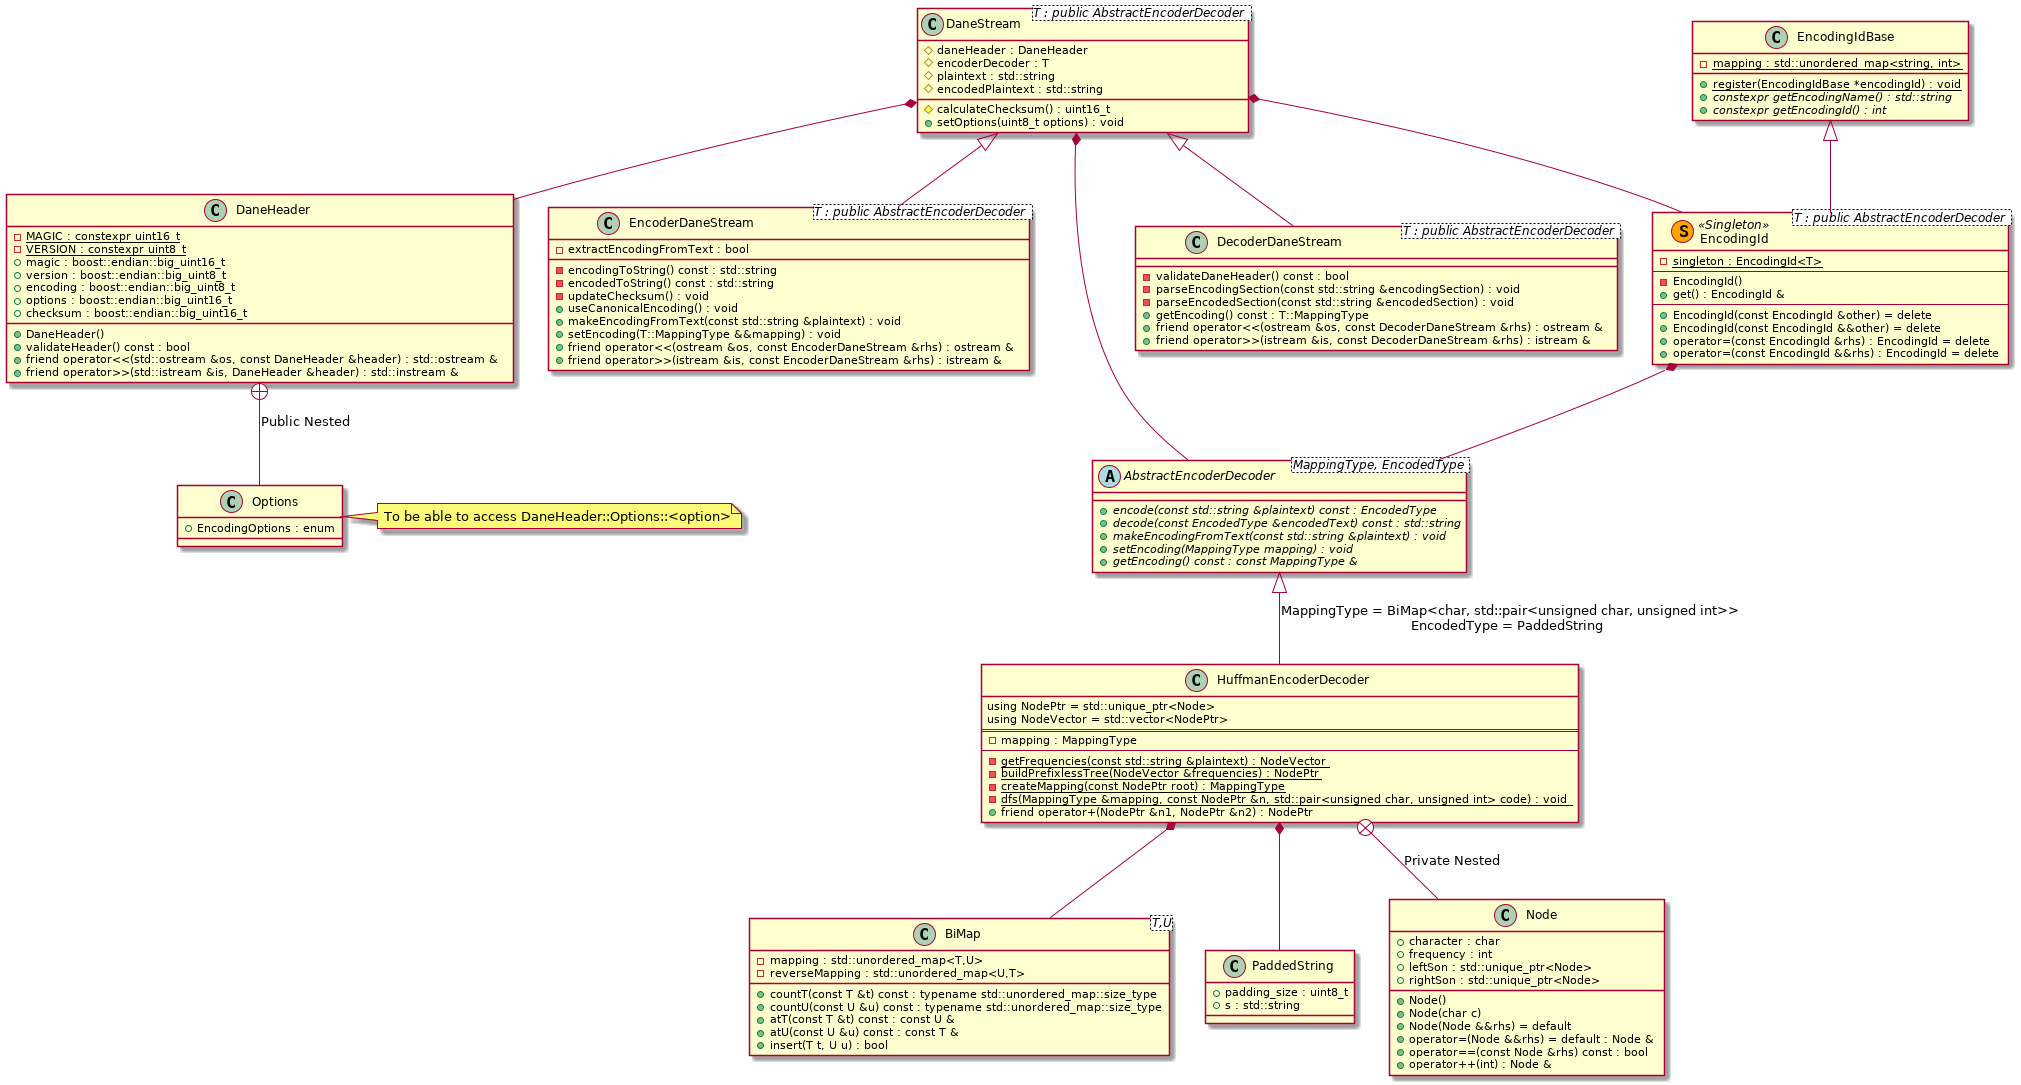
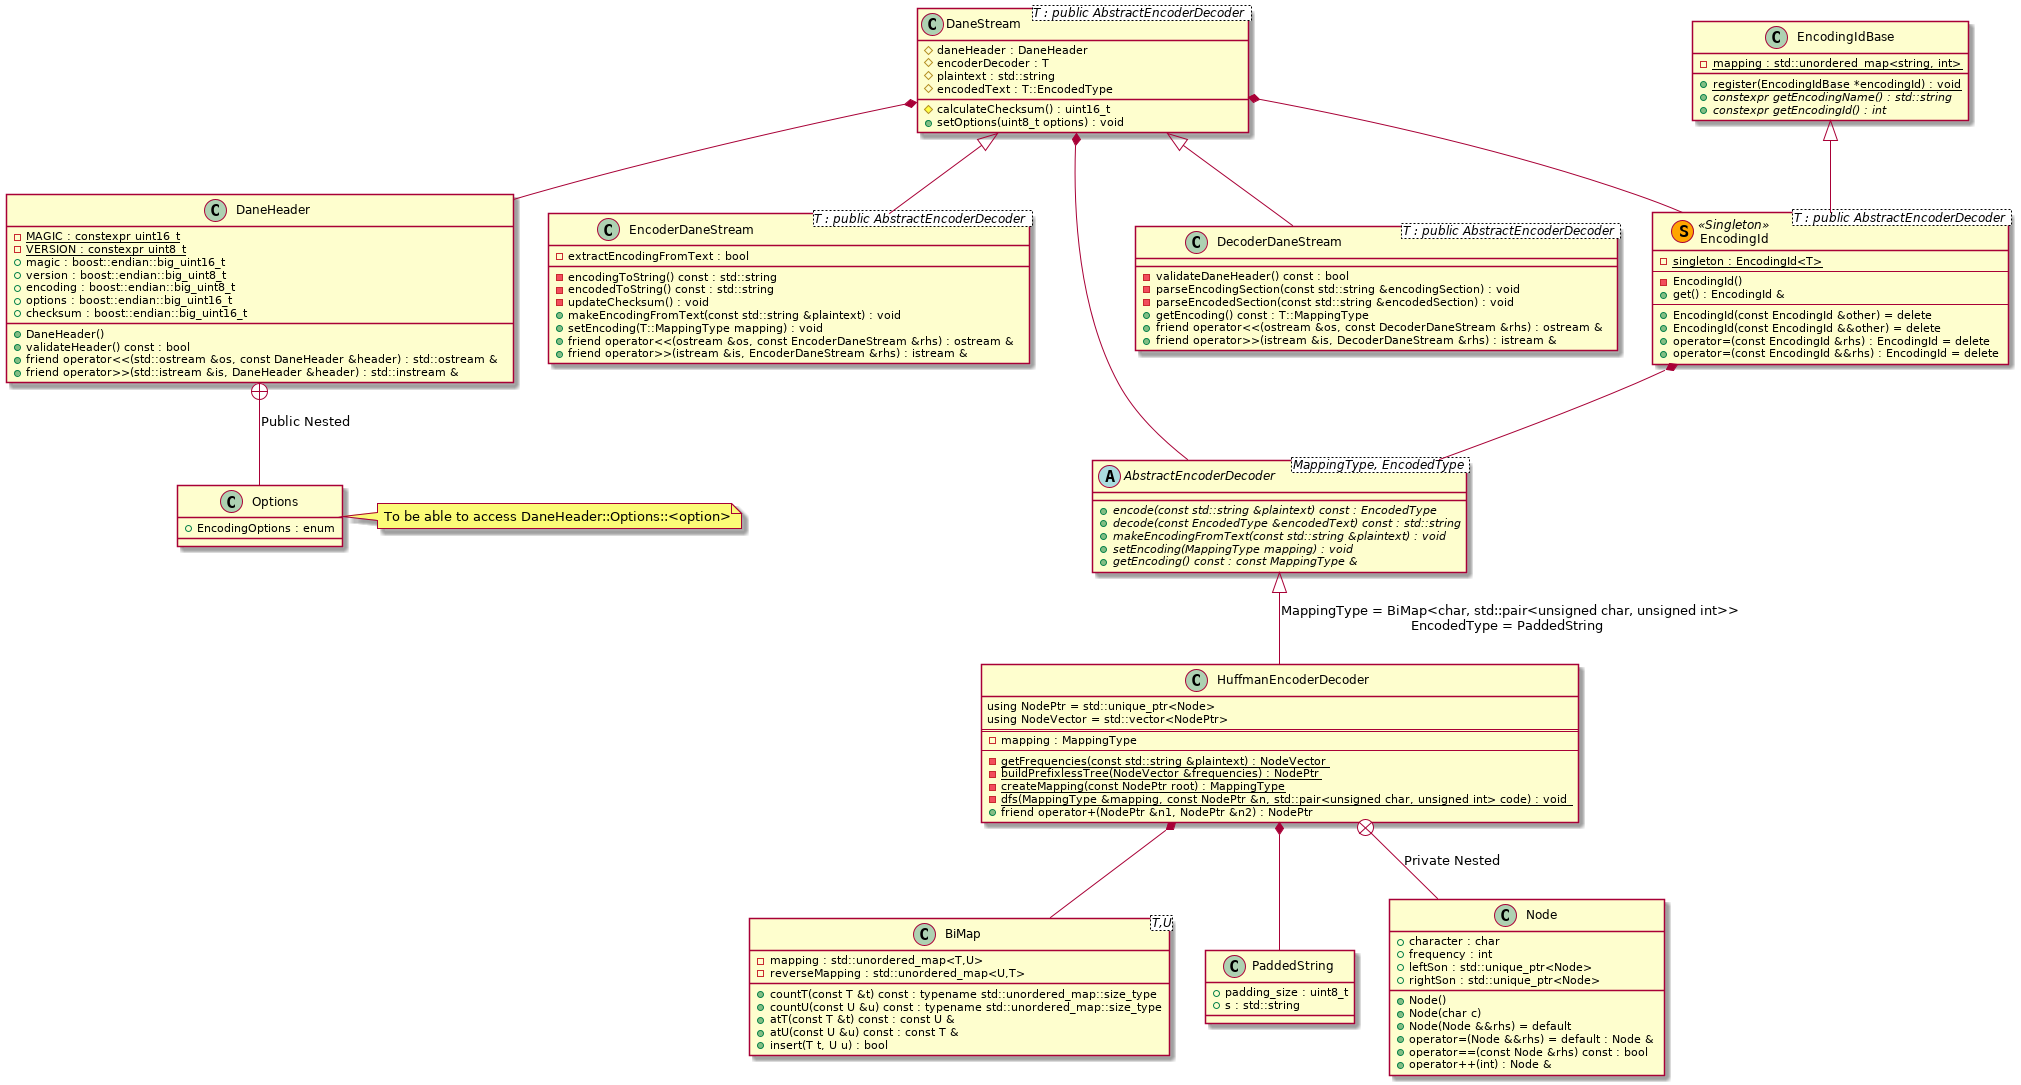
Changed signature of >> operators to receive non-const objects

Changed region(s): [[0.2494, 0.1825, 0.5299, 0.365], [0.6546, 0.3041, 0.7793, 0.3346], [0.4988, 0.0608, 0.5299, 0.0912]]

diff --git a/include/Dane/EncoderDaneStream.h b/include/Dane/EncoderDaneStream.h
@@ -17,7 +17,7 @@ public:
 	void setEncoding(DaneStream::MappingType mapping);
 
 	friend ostream &operator<<(ostream &os, const EncoderDaneStream &rhs);
-	friend istream &operator>>(istream &is, const EncoderDaneStream &rhs);
+	friend istream &operator>>(istream &is, EncoderDaneStream &rhs);
 };
 
 #endif

diff --git a/include/Dane/DecoderDaneStream.h b/include/Dane/DecoderDaneStream.h
@@ -12,6 +12,9 @@ private:
 
 public:
 	DaneStream::MappingType getEncoding() const;
+
+	friend ostream &operator<<(ostream &os, const DecoderDaneStream &rhs);
+	friend istream &operator>>(istream &is, DecoderDaneStream &rhs);
 };
 
 #endif
